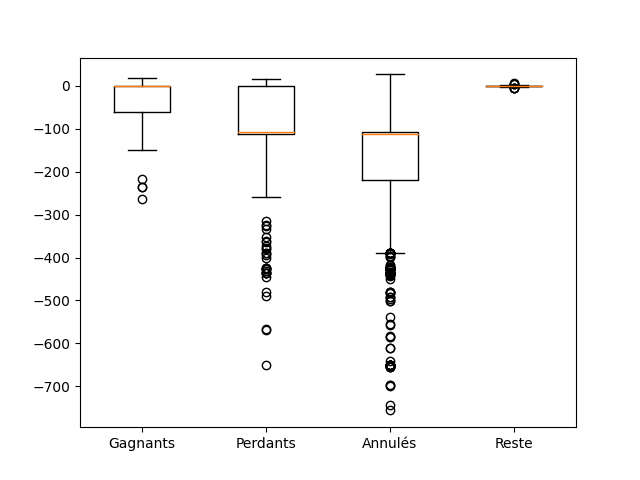
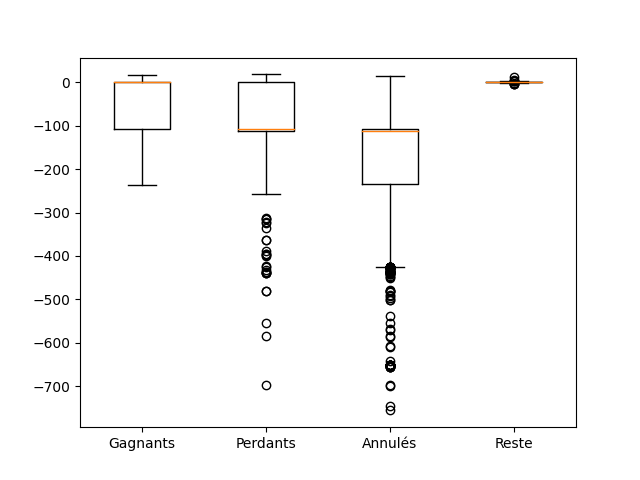
beginning comparison between NN and no NN

diff --git a/main.py b/main.py
@@ -25,7 +25,7 @@ time_travel_multiplier=0.9
 
 use_model = True
 save_model = use_model
-learning = True
+learning = False
 batch_size = 32
 hidden_size_1 = 64
 hidden_size_2 = 32
@@ -35,6 +35,8 @@ step_length = 0.2
 
 num_cyclists = 2500
 max_num_cyclists_same_time = 50
+
+dict_structure_uses = {"used": [], "not_used": []}
 
 
 
@@ -290,7 +292,8 @@ while(len(dict_cyclists) != 0 or id<=num_cyclists):
             if(dict_cyclists[i].finish_step > 0):
                 dict_cyclists_arrived[i] = dict_cyclists[i]
                 if(i in structure.dict_model_input):
-                    if(dict_cyclists[i].struct_crossed):
+                    if(dict_cyclists[i].struct_crossed or dict_cyclists[i].canceled_candidature):
+                        dict_structure_uses["used"].append(i)
                         if(dict_cyclists[i].finish_step>tab_scenario[int(dict_cyclists[i].id)]["finish_step"]):
                             target = torch.Tensor([0])
                             if(dict_cyclists[i].id not in dict_timeouts):
@@ -304,6 +307,7 @@ while(len(dict_cyclists) != 0 or id<=num_cyclists):
                             if(dict_cyclists[i].id in dict_timeouts):
                                 dict_timeouts[dict_cyclists[i].id]["max"] = 1
                     else:
+                        dict_structure_uses["not_used"].append(i)
                         if(len(set(dict_cyclists[i].path_used) & set(structure.path["path"]))>=len(structure.path["path"])//2):
                             target = torch.Tensor([1])
                         elif(dict_cyclists[i].id in dict_timeouts):
@@ -362,13 +366,18 @@ if(not new_scenario):
         mean_diff_finish_step = sum_diff_finish_step/num_diff_finish_step
     
     print("mean finish time diff for users of struct:", mean_diff_finish_step, ", for others:", sum(tab_diff_finish_step[-1])/len(tab_diff_finish_step[-1]))
+    
+    if(use_model):
+        sub_folders = "w_model/"
+    else:
+        sub_folders = "wou_model/"
 
     if(structure.open):
         labels=["Gagnants", "Perdants", "Annulés", "Reste"]
 
-        plot_and_save_boxplot(tab_diff_finish_step, "mean_time_diff", labels=labels)
-        plot_and_save_boxplot(tab_diff_waiting_time, "mean_waiting_time", labels=labels)
-        plot_and_save_boxplot(tab_diff_distance_travelled, "mean_distance_travelled", labels=labels)
+        plot_and_save_boxplot(tab_diff_finish_step, "mean_time_diff", labels=labels, sub_folders=sub_folders)
+        plot_and_save_boxplot(tab_diff_waiting_time, "mean_waiting_time", labels=labels, sub_folders=sub_folders)
+        plot_and_save_boxplot(tab_diff_distance_travelled, "mean_distance_travelled", labels=labels, sub_folders=sub_folders)
 
         plot_and_save_bar(tab_num_type_cyclists, "cyclists_type", labels=labels)
 
@@ -387,6 +396,10 @@ if(not new_scenario):
             with open('models/mean_loss.tab', 'rb') as infile:
                 tab_mean_loss = pickle.load(infile)
 
+
+        with open('models/structure_uses.dict', 'wb') as outfile:
+            pickle.dump(dict_structure_uses, outfile)
+
         if(learning):
             tab_num_cycl.append(structure.num_cyclists_crossed)
             tab_time_diff.append(mean_diff_finish_step)
@@ -398,11 +411,11 @@ if(not new_scenario):
 
             plt.clf()
             plt.plot(tab_time_diff)
-            plt.savefig("images/evolution_time_diff.png")
+            plt.savefig("images/"+sub_folders+"evolution_time_diff.png")
 
             plt.clf()
             plt.plot(tab_mean_loss)
-            plt.savefig("images/evolution_mean_loss.png")
+            plt.savefig("images/"+sub_folders+"evolution_mean_loss.png")
 
             print("WARNING: Saving model...")
             torch.save(model.state_dict(), "models/model.pt")
@@ -415,4 +428,7 @@ if(not new_scenario):
                 pickle.dump(tab_time_diff, outfile)
             with open('models/mean_loss.tab', 'wb') as outfile:
                 pickle.dump(tab_mean_loss, outfile)
+    else:
+        with open('structure_uses.dict', 'wb') as outfile:
+            pickle.dump(dict_structure_uses, outfile)
 

diff --git a/graphs.py b/graphs.py
@@ -65,12 +65,12 @@ def compute_graphs_data(structure_was_open, dict_cyclists_arrived, tab_scenario)
 
 
 
-def plot_and_save_boxplot(data, file_title, labels=None, structure_was_open=None):
+def plot_and_save_boxplot(data, file_title, labels=None, structure_was_open=None, sub_folders=""):
     plt.clf()
     fig1, ax1 = plt.subplots()
     ax1.set_title('')
     ax1.boxplot(data, labels=labels)
-    file_path = "images/"+file_title
+    file_path = "images/"+sub_folders+file_title
     if(structure_was_open != None):
         if(structure_was_open):
             file_path+="_open"
@@ -80,17 +80,17 @@ def plot_and_save_boxplot(data, file_title, labels=None, structure_was_open=None
     plt.savefig(file_path)
 
 
-def plot_and_save_bar(data, file_title, labels=None):
+def plot_and_save_bar(data, file_title, labels=None, sub_folders=""):
     plt.clf()
     fig1, ax1 = plt.subplots()
     ax1.set_title('')
     ax1.bar(range(len(data)), data, tick_label=labels)
-    plt.savefig("images/"+file_title+".png")
+    plt.savefig("images/"+sub_folders+file_title+".png")
 
 
-def plot_and_save_line(data, file_title, labels=None):
+def plot_and_save_line(data, file_title, labels=None, sub_folders=""):
     plt.clf()
     fig1, ax1 = plt.subplots()
     ax1.set_title('')
     ax1.bar(range(len(data)), data, tick_label=labels)
-    plt.savefig("images/"+file_title+".png")
+    plt.savefig("images/"+sub_folders+file_title+".png")
